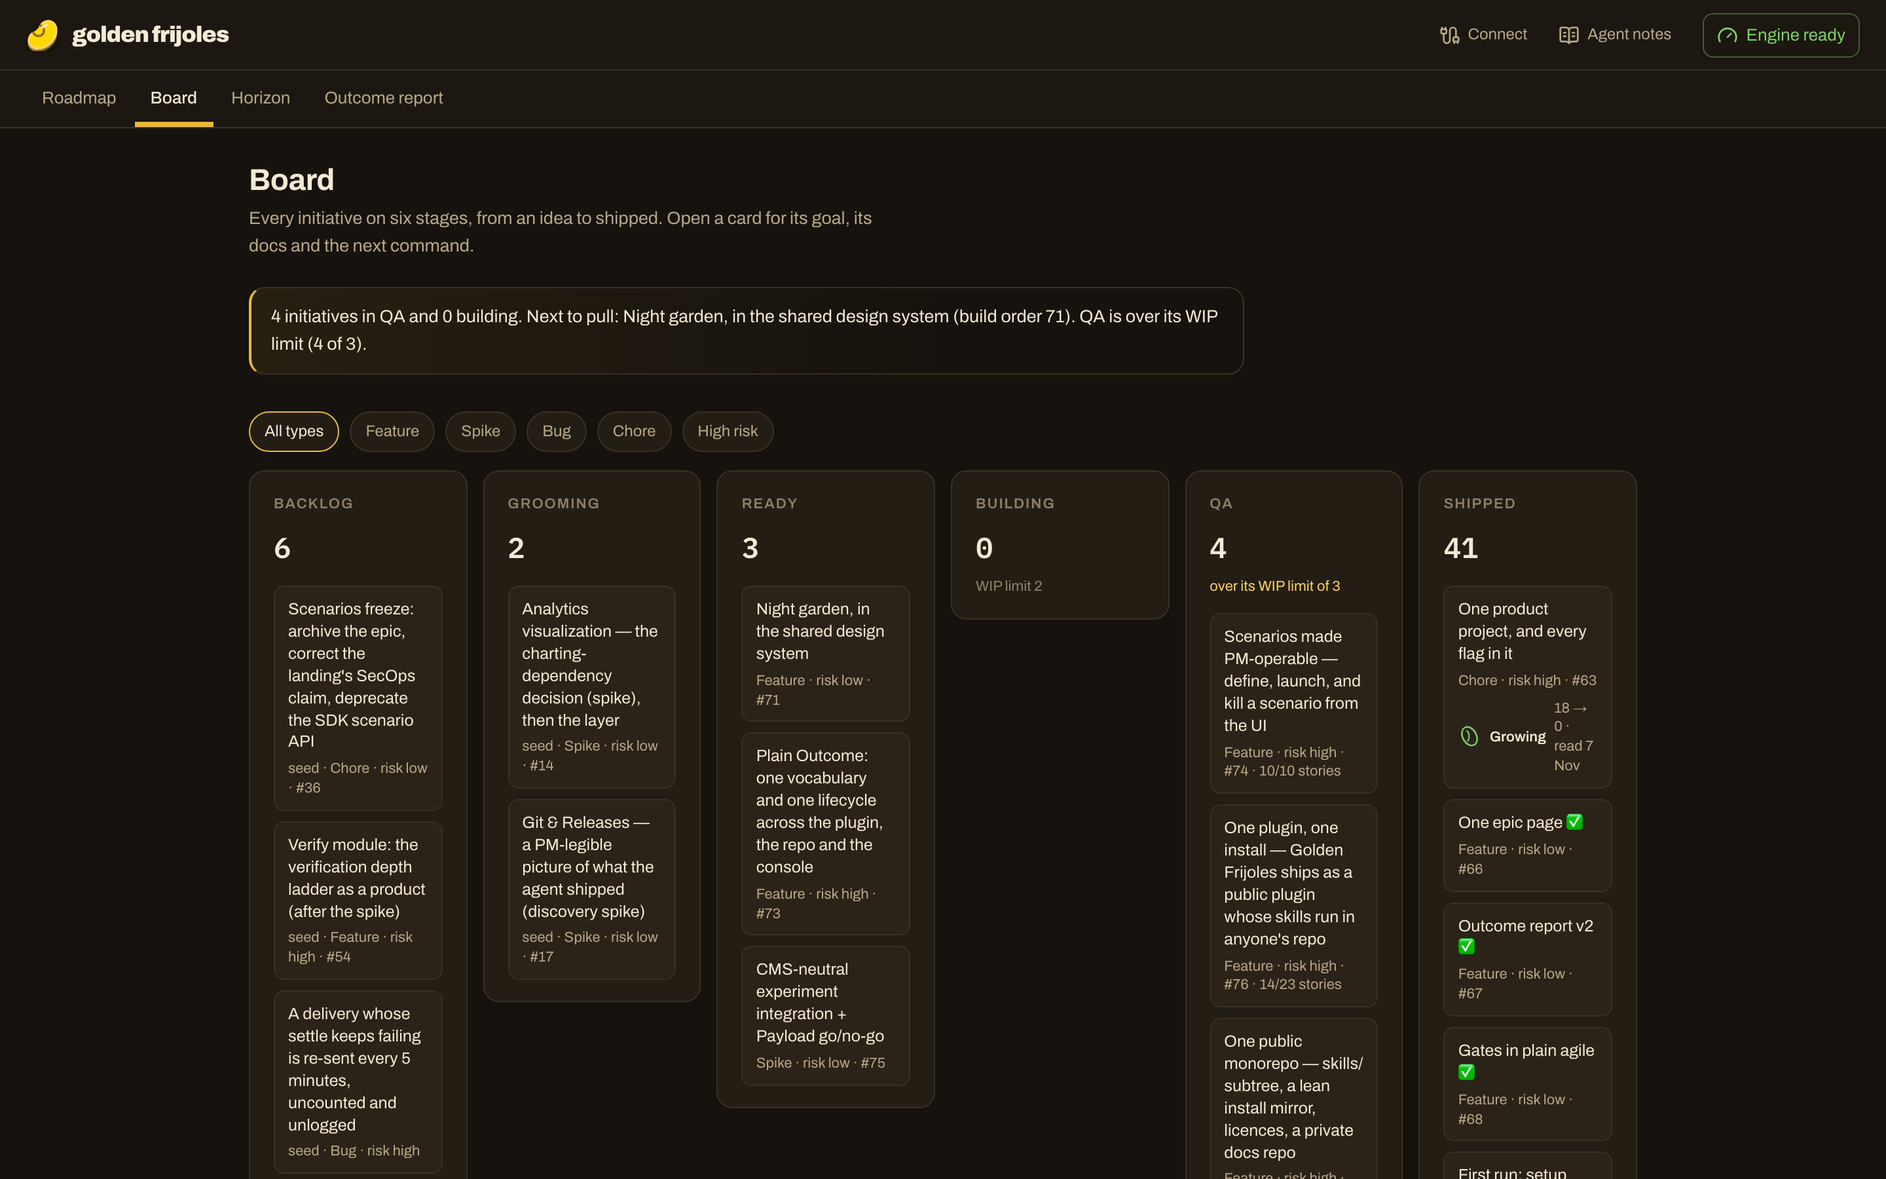
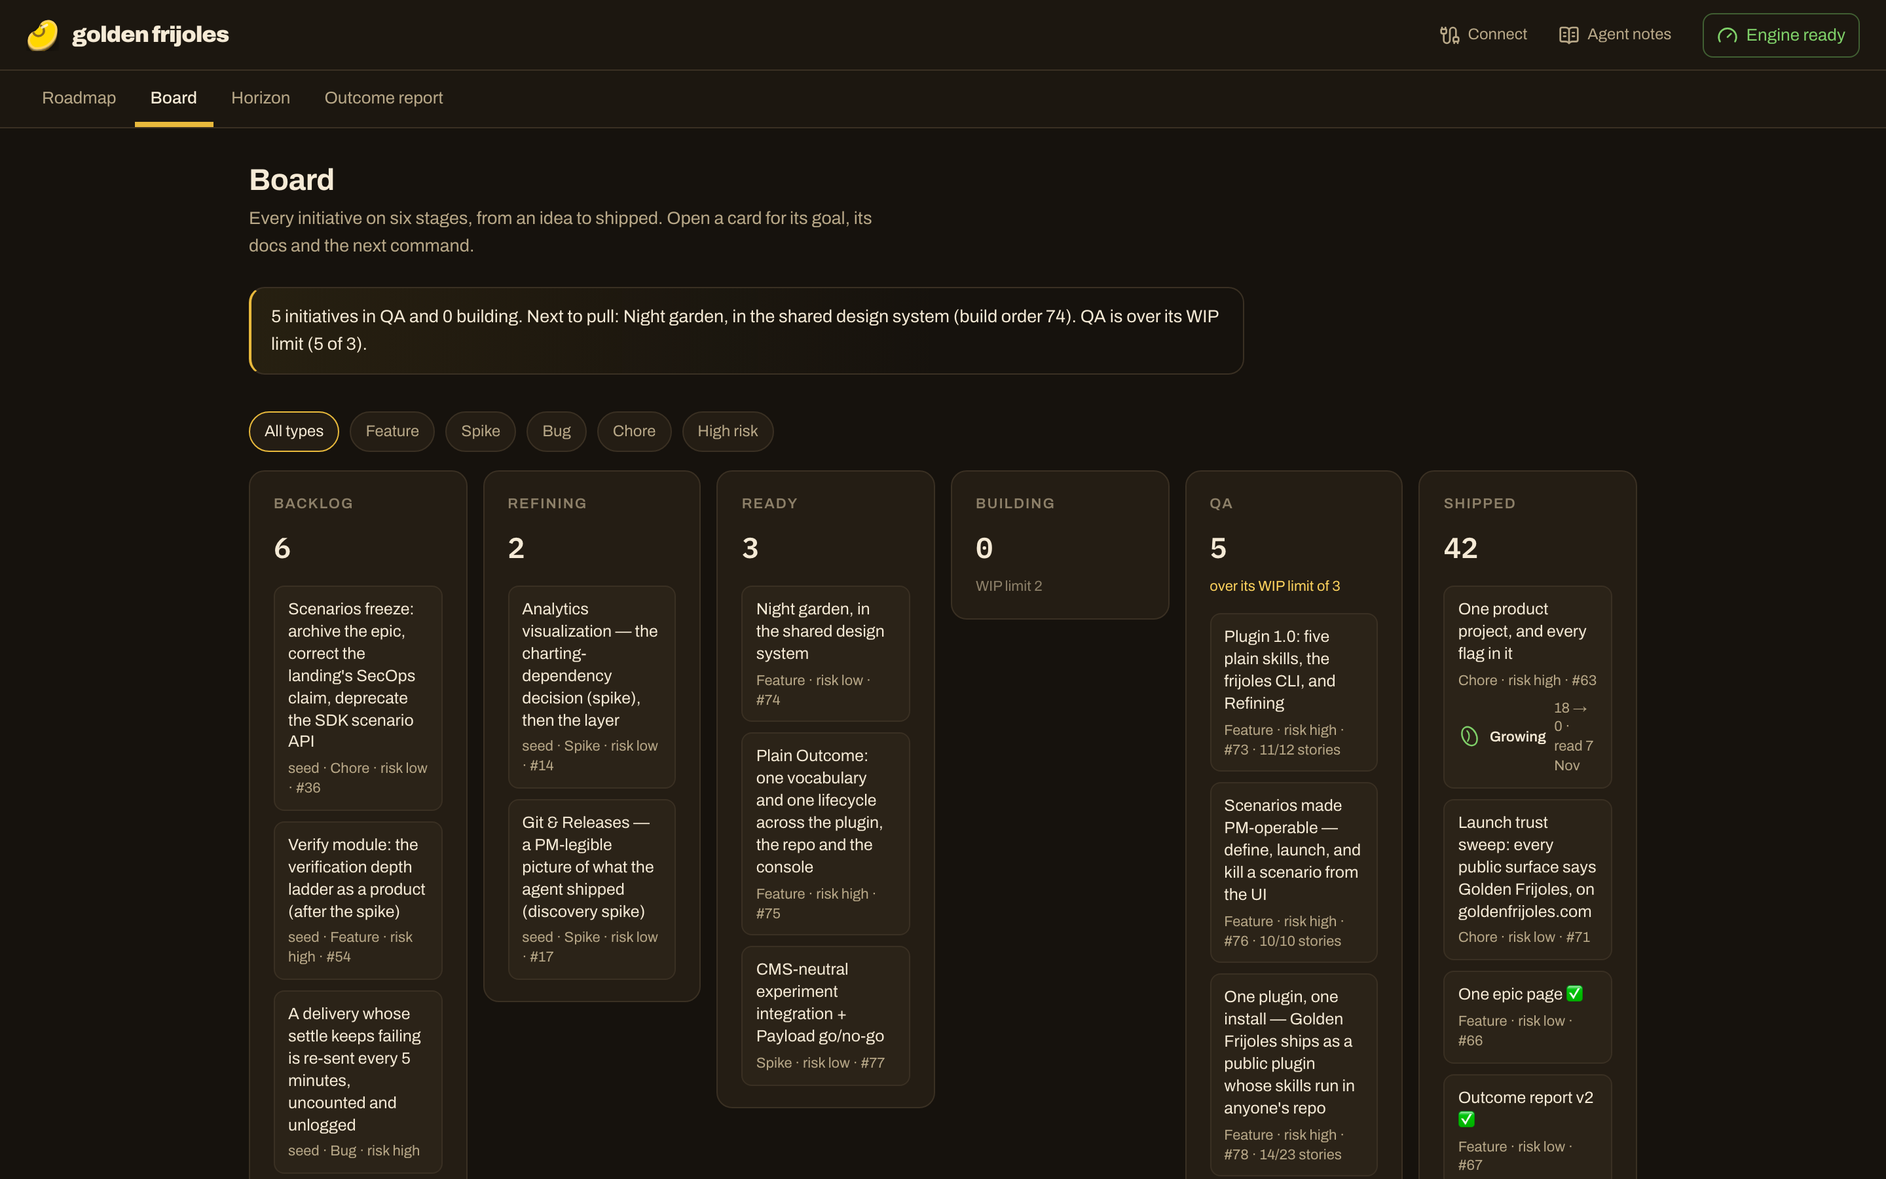
docs(plugin-1-0): close the epic — retro, poster, learnings, walkthrough run [risk LOW]
Shipped through #324 (f05bc81) and #328 (f20076a); v1.0.0 released, kit 1.0.0 and CLI 1.0.0 on npm.
Sprint 4's checks run on production and in an isolated install; Daniel's interactive steps owed.
Three learnings promoted: a stacked series merges into its bases, not main; a bulk rename
classifies every hit first; the local gate replays the CI that judges the PR. The README
screenshot shows Refining. scenarios-freeze is archived (Daniel reversed D6).

Claude-Session: https://claude.ai/code/session_01CtPSL2zKuVYSVJPYqaFkh9

diff --git a/Roadmap/09-platform-infra/plugin-1-0/RETROSPECTIVE.md b/Roadmap/09-platform-infra/plugin-1-0/RETROSPECTIVE.md
@@ -1,21 +1,51 @@
 # Plugin 1.0: five plain skills, the frijoles CLI, and Refining — Retrospective
 
-_Closed: <date>_
-_Intent: yes | mostly | no_
-<!-- Did we build what the product owner meant? One word, THEIR answer: yes, mostly or no. Required by `epic-dod` only
-     when the epic's seed or README carries a numeric `intent_match:` (intent-match D17); the calibration learns from
-     it. Keep the line and leave exactly one of the three words between `_Intent: ` and the closing underscore. -->
-_Quote vs actual: <quote $lo–hi (basis), or "not quoted"> → <actual ≈$n> (<Δ% vs the quote's top, or "—">)_
-<!-- The actual is STAMPED, never typed: `node scripts/epic-actuals.mjs --epic <slug> --write` writes actual_* into
-     the README (finops S2.5); copy its numbers here. -->
+_Closed: 2026-10-08_
+_Intent: owed to Daniel (yes | mostly | no)_
+_Quote vs actual: $55–111 (L, n=4, p25–p75) → ≈$56.54 (inside the quote; Claude only, reviewers not measured)_
 
 ## What shipped
-<!-- The capability now live, by sprint, with commit/PR refs. -->
+- **Sprint 1 · the CLI is frijoles** (#324, merge `f05bc81`; plugin + kit 0.44.0). `frijoles` and `frijoles-kit`;
+  `gf` and `gf-kit` keep working with a stderr notice until 2026-12-31 or 1.1.0, and `check-deprecations.mjs` turns CI
+  red after that and on any `gf <verb>` in shipped text.
+- **Sprints 2–4** (#325–#327, landed in `main` through #328, merge `f20076a`; v1.0.0). `refine` and Backlog · Refining
+  · Ready (keys unchanged); five skills (`setup`, `refine`, `strategy`, `report`, `smoke`) and the `verifier` agent
+  with a security lens; the ops skills in this repo's `.claude/skills/`; one CHANGELOG table from every old command to
+  the new one. CLI 1.0.0 (pinned to kit 0.43.0, D9) and kit 1.0.0 on npm.
 
 ## What went well
+- **The verifier earned its place on every sprint.** It found a renamed localStorage key that would have reset every
+  reader's methodology progress, a hand-edited generated workflow, the skills repo's own script copies left behind,
+  e2e and plugin tests outside the builder's runs, and a guard still looking for the old skill name. Each was invisible
+  to the gates the builder had run.
+- **Tests caught what the plan didn't foresee:** the kit-tarball test (the kit is built from the skills' closure, so
+  moving the ops skills out dropped their scripts) and routine-bootstrap (an unknown placeholder token).
+- **Proving with a real install before the merge:** `check-onboarding-parity --exec` installs the plugin into an
+  isolated config, and confirmed `setup` and all five skills ahead of release.
 
 ## What we learned
-<!-- Promote the durable, generalizable items to Roadmap/LEARNINGS.md (one-liner + why + date). Dedupe. -->
+- **A stacked series merges into its bases, not `main`.** Daniel merged #324–#327 in order as instructed; only #324
+  reached `main`, because GitHub retargets a stacked PR to `main` only when its base branch is deleted at merge. One
+  extra PR (#328, base `main`, head = the top of the stack) carried the rest. Release instructions for a stack must say
+  it: merge the top branch into `main` once, or retarget each PR before merging it.
+- **A bulk rename has to separate identifiers from words, every time.** Every rename sweep here touched something
+  stored or generated: a localStorage key, a token-shaped string, generated workflow output, an approved design file,
+  a history attribution. Grep the old word, then classify each hit (typed command, label, path, stored identifier,
+  history quote, generated output) before replacing.
+- **The local gate must be the CI gate.** The root `test:unit` skips `skills/plugins/**` tests, the skills repo's
+  `cmp` pairs, the networked `--exec` step and the e2e specs. A replay script of Skills CI (every `cmp`, every test
+  glob, every check, `--exec`) ran before each push after the second review, and the reds stopped.
+- **Codex capped, agy out of quota, vibe's 256 KB cap:** on rename-heavy diffs the cross-family pass saw 11–19 of
+  100–260 files. It is worth running scoped to the code, and its coverage must be said on the PR; the verifier carried
+  the rest.
 
 ## Gaps / follow-ups
-<!-- Smoke gaps owed to the product owner, deferred slices, known limitations. -->
+- **Owed to Daniel:** the `_Intent_` word above; Sprint 4's interactive walkthrough steps 2–5; your live routines that
+  name a removed skill (sprint-3 step 7); and two decisions: rename the Notion `Stage` select option (it stores the key
+  "Grooming"), and whether to re-approve the console prototype whose sentence still says "a fresh groom".
+- **CLI 1.0.x** should move its kit pin from 0.43.0 to 1.0.x (D9) with its next release.
+- **Windows:** the `gf` notice cannot fire through npm's shims (stated in the code); Windows `gf` users learn the
+  rename from the CHANGELOG only.
+- **Local e2e** fails on the CLI and North Star routes against this machine's local database (500s) while CI passes;
+  worth a `supabase db reset` before trusting the next local run.
+- `scenarios-freeze` is archived (Daniel reversed D6); the scenarios light-up is next on the launch list after SDK 1.0.

diff --git a/Roadmap/00-ideas/BUILD-ORDER.md b/Roadmap/00-ideas/BUILD-ORDER.md
@@ -5,16 +5,15 @@
 
 # Build order — the six stages
 
-> **Generated 2026-10-08 — do not hand-edit.** One stage per initiative, decided in one place
+> **Generated 2026-10-09 — do not hand-edit.** One stage per initiative, decided in one place
 > (`scripts/lib/stage.mjs`): Backlog · Refining · Ready · Building · QA · Shipped.
 > This committed file reads the docs alone, so **Building and QA are not here** — they are facts git
 > and GitHub hold. For the live board run `node scripts/build-order.mjs --live`, or open the Hub board.
 
-## Backlog (6)
+## Backlog (5)
 
 _seeds with no pitch yet._
 
-- [Scenarios freeze: archive the epic, correct the landing's SecOps claim, deprecate the SDK scenario API](seeds/scenarios-freeze.md) — #36 · 01 Growth Engine · seed · Chore · risk: Low · appetite S · _docs: status raw_
 - [Verify module: the verification depth ladder as a product (after the spike)](seeds/verify-module.md) — #54 · 09 Platform Infra · seed · Feature · risk: High · appetite L · _docs: status raw_
 - [A delivery whose settle keeps failing is re-sent every 5 minutes, uncounted and unlogged](seeds/delivery-stale-reclaim-uncounted.md) — 01 Growth Engine · seed · Bug · risk: High · appetite S · _docs: status raw_
 - [perf-probe only requests the hosts a project names](seeds/perf-probe-target-allowlist.md) — 09 Platform Infra · seed · Chore · _docs: status raw_
@@ -28,11 +27,10 @@ _a pitch is waiting at the approval gate._
 - [Analytics visualization — the charting-dependency decision (spike), then the layer](seeds/analytics-visualization-layer.md) — #14 · 01 Growth Engine · seed · Spike · risk: Low · appetite S · _docs: status ready_
 - [Git & Releases — a PM-legible picture of what the agent shipped (discovery spike)](seeds/git-and-releases-legibility.md) — #17 · 02 Commercial · seed · Spike · risk: Low · appetite S · _docs: status ready_
 
-## Ready (8)
+## Ready (7)
 
 _scaffolded (or a fixed-scope seed), in build order — pull from the top._
 
-- [Plugin 1.0: five plain skills, the frijoles CLI, and Refining](../09-platform-infra/plugin-1-0/README.md) — #73 · 09 Platform Infra · 11/12 stories · risk: High · appetite L · _docs: status scaffolded_
 - [Night garden, in the shared design system](../02-commercial/night-garden-design-system/README.md) — #74 · 02 Commercial · 0/8 stories · risk: Low · appetite M · _docs: status scaffolded_
 - [Plain Outcome: one vocabulary and one lifecycle across the plugin, the repo and the console](../09-platform-infra/plain-outcome-rename/README.md) — #75 · 09 Platform Infra · 0/12 stories · risk: High · appetite L · _docs: status scaffolded_
 - [Scenarios made PM-operable — define, launch, and kill a scenario from the UI](../01-growth-engine/scenarios-pm-operable/README.md) — #76 · 01 Growth Engine · 10/10 stories · risk: High · appetite M · _docs: status in-progress_
@@ -49,10 +47,11 @@ _a work branch is on origin. Not in this committed file: `node scripts/build-ord
 
 _a PR is ready for review, or merged and waiting for its close-out. Not in this committed file: `node scripts/build-order.mjs --live` or the Hub board._
 
-## Shipped (68)
+## Shipped (69)
 
 _merged, deployed and closed._
 
+- [Plugin 1.0: five plain skills, the frijoles CLI, and Refining](../09-platform-infra/plugin-1-0/README.md) — #73 · 09 Platform Infra · 12/12 stories · risk: High · appetite L · _docs: status shipped_
 - [Coaches v2: a cold read first, then coaches that read each other, save as they go and leave one-pagers ✅](../09-platform-infra/coaches-v2/README.md) — #72 · 09 Platform Infra · 9/9 stories · risk: Low · appetite M · _docs: status shipped_
 - [Launch trust sweep: every public surface says Golden Frijoles, on goldenfrijoles.com](../02-commercial/launch-trust-sweep/README.md) — #71 · 02 Commercial · 3/3 stories · risk: Low · appetite S · _docs: status shipped_
 - [Build view upgrade ✅](../02-commercial/build-view-upgrade/README.md) — #70 · 02 Commercial · 4/4 stories · risk: Low · appetite S · _docs: status shipped_
@@ -123,4 +122,4 @@ _merged, deployed and closed._
 - [The portfolio loop test fails intermittently in CI and has been quarantined](seeds/portfolio-loop-flake.md) — 02 Commercial · seed · Bug · risk: Low · appetite S · _docs: status shipped_
 
 ---
-_84 initiatives on the board. Regenerate with `node scripts/build-order.mjs`._
+_83 initiatives on the board. Regenerate with `node scripts/build-order.mjs`._

diff --git a/Roadmap/README.md b/Roadmap/README.md
@@ -459,6 +459,14 @@ independently shippable slice of value.
   "Approve, don't fund" leaves the pitch `ready`. `build-order.mjs` fails any live bet with no funding record, after
   an honest 45-row `wave-backfill`. `priority:` is retired. A fixed-scope seed scaffolds from its slug alone, with its
   acceptance criteria as the stories (dogfood F33). **Shipped 2026-10-04** (#271, plugin + kit 0.28.0).
+- ✅ [Plugin 1.0: five plain skills, the frijoles CLI, and Refining](09-platform-infra/plugin-1-0/README.md) —
+  **shipped and released 2026-10-08** (#324, #328; plugin and kit 1.0.0, CLI 1.0.0). Five skills instead of fifteen:
+  `setup`, `refine` (was groom), `strategy` (cold read, PMF narrative, North Star, risk validation), `report` (daily,
+  weekly, PMO) and `smoke`, plus the `verifier` agent with a security lens; our own ops skills live in this repo's
+  `.claude/skills/`, and the routines run their scripts. The CLI is `frijoles` (`gf` is shadowed by oh-my-zsh's
+  `git fetch` alias; it keeps working with a notice until 2026-12-31, and CI goes red after). The board reads Backlog ·
+  Refining · Ready; stored keys are unchanged. **Owed:** Daniel's interactive walkthrough, the Notion `Stage` option
+  and the prototype's wording decisions, his live routines, and the `_Intent_` word.
 - ✅ [Notification rails](09-platform-infra/notification-rails/README.md) (Telegram + Slack
   mechanical push/deploy pings · identical reviewed prose reports · per-channel retry checkpoints)
   — **shipped 2026-07-28** (PR #51); Slack uses a channel-scoped Incoming Webhook and plain-text
@@ -556,6 +564,10 @@ independently shippable slice of value.
 
 ## Recent highlights
 
+- **2026-10-08**: `plugin-1-0` **shipped**: four sprints, ≈$56.54 against a $55–111 quote. The plugin went from fifteen
+  skills to five plus the verifier, the CLI became `frijoles`, and Grooming became Refining. The verifier found a
+  defect in every sprint that the builder's gates could not see; the stacked PRs merged into their bases instead of
+  `main`, and one more PR (#328) carried the rest.
 - **2026-10-08**: `launch-trust-sweep` **shipped**: one sprint, one PR, ≈$8.01, not quoted. Every public surface says
   Golden Frijoles on goldenfrijoles.com, and a CI guard keeps the Vercel host out. Review caught that rewriting the
   host in old smoke records turned July evidence into claims about a domain that only existed from August.

diff --git a/Roadmap/09-platform-infra/plugin-1-0/sprint-4.md b/Roadmap/09-platform-infra/plugin-1-0/sprint-4.md
@@ -3,7 +3,7 @@ epic: plugin-1-0
 sprint: 4
 title: "Release 1.0"
 risk: high
-phase: In review
+phase: Shipped
 stories_total: 2
 stories:
   - id: S4.1
@@ -19,11 +19,11 @@ stories:
     i_want: "to install from main and have every name work"
     so_that: "the release is proven, not assumed"
     risk: low
-    status: planned
+    status: done
 ---
 # Plugin 1.0 — Sprint 4: Release 1.0
 
-**Status:** 🟡 S4.1 built; S4.2 is the walkthrough below, run after the one-sitting merge (D7)
+**Status:** ✅ shipped 2026-10-08 (#328, merge `f20076a`; v1.0.0 released, kit 1.0.0 and CLI 1.0.0 on npm)
 
 ## Stories
 
@@ -32,7 +32,7 @@ stories:
 **Acceptance:** plugin + kit 1.0.0, CLI 1.0.0 (pins kit 0.43.0, the newest published kit: D9); CHANGELOG with the old → new table; `skills/RELEASING.md` followed. **Order:** Daniel publishes CLI 1.0.0 from the branch (2FA) and `npm view @golden-frijoles/cli bin` shows `frijoles`, THEN the four PRs merge in one sitting (D7); the kit publishes itself on the merge.
 **Risk:** high
 
-### Story 4.2 — A stranger installs 1.0
+### Story 4.2 — A stranger installs 1.0 ✅ `f20076a`
 **As** a founder in an empty repo, **I want** to install from main and have every name work, **so that** the release is proven, not assumed.
 **Acceptance:** Scratch repo, plugin from `main`: `/golden-frijoles:setup`, `refine`, `strategy`, `report`, `smoke` load; `frijoles --version`; under zsh with `plugins=(git)`, `frijoles login` runs. README screenshot retaken (Refining).
 **Risk:** low
@@ -74,3 +74,9 @@ Env: an empty scratch repo; Claude Code; a zsh with oh-my-zsh's git plugin on.
    → Backlog · Refining · Ready · Building · QA · Shipped. Retake the README screenshot from this page.
 
 If any step fails, note the step number + what you saw — that's the bug report.
+
+**Run 2026-10-08 on production (agent):** step 1 ✅ (CLI 1.0.0 on npm, bins `frijoles` and `gf`) · step 2 ✅ in an
+isolated config (`check-onboarding-parity --exec`: the plugin installs from the checkout and lists `setup`; `npx skills`
+installs all five) · step 3 ✅ `/install.md` carries the new last step · step 6 ✅ the board reads Backlog · Refining ·
+Ready (stored keys unchanged), README screenshot retaken. **Owed to Daniel:** steps 2–5 in a real interactive session
+(`/plugin` listing, the install prompt run end to end, `frijoles login` in oh-my-zsh).

diff --git a/Roadmap/LEARNINGS.md b/Roadmap/LEARNINGS.md
@@ -1373,6 +1373,17 @@ one-liner + why + date shape.
   1.0.10 incident this repo already paid for. *(2026-07-25.)*
 
 ## Working efficiently
+- **A stacked series merges into its bases, not `main`.** #324–#327 were merged in order; only #324 reached `main`,
+  because GitHub retargets a stacked PR to `main` only when its base branch is deleted at merge. Release instructions
+  for a stack say it: merge the top branch into `main` once, or retarget each PR to `main` before merging it.
+  *(plugin-1-0, 2026-10-08.)*
+- **A bulk rename classifies every hit before replacing it.** Each sweep in plugin-1-0 touched something stored or
+  generated: a localStorage key, generated workflow output, an approved design file, a history attribution, a token
+  prefix it narrowly missed. Grep the old word, then sort the hits (typed command · label · path · stored identifier ·
+  history quote · generated output) and replace only the first three. *(plugin-1-0, 2026-10-08.)*
+- **The local gate must replay the CI that will judge the PR.** The root `test:unit` skips `skills/plugins/**` tests,
+  the skills repo's `cmp` pairs, the networked `check-onboarding-parity --exec` and the e2e specs; three Blocking
+  reds came from those. A script that replays Skills CI step for step stopped them. *(plugin-1-0, 2026-10-08.)*
 - **Rewriting history docs: split instructions from evidence.** A step, an `Env:` line or a curl is an instruction and
   can take a new address; "→ 200", "is live at" or "Daniel opened" is evidence of a past moment and keeps where it was
   observed. A blanket replace keeps every URL working and still falsifies the record. *(launch-trust-sweep, 2026-10-08.)*

diff --git a/Roadmap/09-platform-infra/plugin-1-0/README.md b/Roadmap/09-platform-infra/plugin-1-0/README.md
@@ -1,6 +1,6 @@
 ---
-status: scaffolded   # AUTHORITATIVE epic status (SSOT) — scaffolded | in-progress | shipped | archived. Set shipped at epic close.
-phase: Building       # the executive ladder — Shaping | Locking architecture | Building | Verifying | In review | Shipped.
+status: shipped      # AUTHORITATIVE epic status (SSOT) — scaffolded | in-progress | shipped | archived. Set shipped at epic close.
+phase: Shipped       # the executive ladder — Shaping | Locking architecture | Building | Verifying | In review | Shipped.
                      # WRITTEN at each cadence event, never inferred. Shipped = merged AND deployed.
 locked_at: "2026-10-08T19:39:18Z"
 slug: plugin-1-0
@@ -27,6 +27,9 @@ flag_key: null   # the epic's flag, decided at groom Stage 6b and copied from th
 build_order: 73      # integer position in the ONE global build sequence — the SSOT once the epic
                      # exists (the seed's value is only a fallback). Fill it in at the betting
                      # table; plain integers, no "#2a" suffixes. See 00-ideas/README.md → Ordering.
+actual_usd: 56.54
+actual_mtok: 215.1
+actual_basis: "this machine · 2026-10-08 · 1 session · prices 2026-10-02"
 ---
 
 # Epic: Plugin 1.0: five plain skills, the frijoles CLI, and Refining

diff --git a/Roadmap/09-platform-infra/plugin-1-0/sprint-3.md b/Roadmap/09-platform-infra/plugin-1-0/sprint-3.md
@@ -3,7 +3,7 @@ epic: plugin-1-0
 sprint: 3
 title: "Five skills and the verifier"
 risk: high
-phase: In review
+phase: Shipped
 stories_total: 4
 stories:
   - id: S3.1
@@ -37,7 +37,7 @@ stories:
 ---
 # Plugin 1.0 — Sprint 3: Five skills and the verifier
 
-**Status:** 🟡 built, in review (stacked on S2; merges with S1–S4 in one sitting, D7)
+**Status:** ✅ shipped 2026-10-08 (S1 via #324 `f05bc81`; S2–S4 via #328 `f20076a`)
 
 ## Stories
 

diff --git a/Roadmap/09-platform-infra/plugin-1-0/sprint-2.md b/Roadmap/09-platform-infra/plugin-1-0/sprint-2.md
@@ -3,7 +3,7 @@ epic: plugin-1-0
 sprint: 2
 title: "Refine and Refining"
 risk: high
-phase: In review
+phase: Shipped
 stories_total: 3
 stories:
   - id: S2.1
@@ -30,7 +30,7 @@ stories:
 ---
 # Plugin 1.0 — Sprint 2: Refine and Refining
 
-**Status:** 🟡 built, in review (stacked on S1; merges with S1–S4 in one sitting, D7)
+**Status:** ✅ shipped 2026-10-08 (S1 via #324 `f05bc81`; S2–S4 via #328 `f20076a`)
 
 ## Stories
 

diff --git a/Roadmap/00-ideas/seeds/scenarios-freeze.md b/Roadmap/00-ideas/seeds/scenarios-freeze.md
@@ -1,7 +1,7 @@
 ---
 title: "Scenarios freeze: archive the epic, correct the landing's SecOps claim, deprecate the SDK scenario API"
 slug: scenarios-freeze
-status: raw
+status: archived   # dropped 2026-10-08: Daniel reversed D6 — scenarios and drills stay and get switched on (launch-sweep audit, decision 3)
 area: "01"
 type: chore
 appetite: S

diff --git a/Roadmap/09-platform-infra/plugin-1-0/sprint-1.md b/Roadmap/09-platform-infra/plugin-1-0/sprint-1.md
@@ -30,7 +30,7 @@ stories:
 ---
 # Plugin 1.0 — Sprint 1: The CLI is frijoles
 
-**Status:** 🟡 built, in review (stacked; merges with S2–S4 in one sitting, D7)
+**Status:** ✅ shipped 2026-10-08 (S1 via #324 `f05bc81`; S2–S4 via #328 `f20076a`)
 
 ## Stories
 
